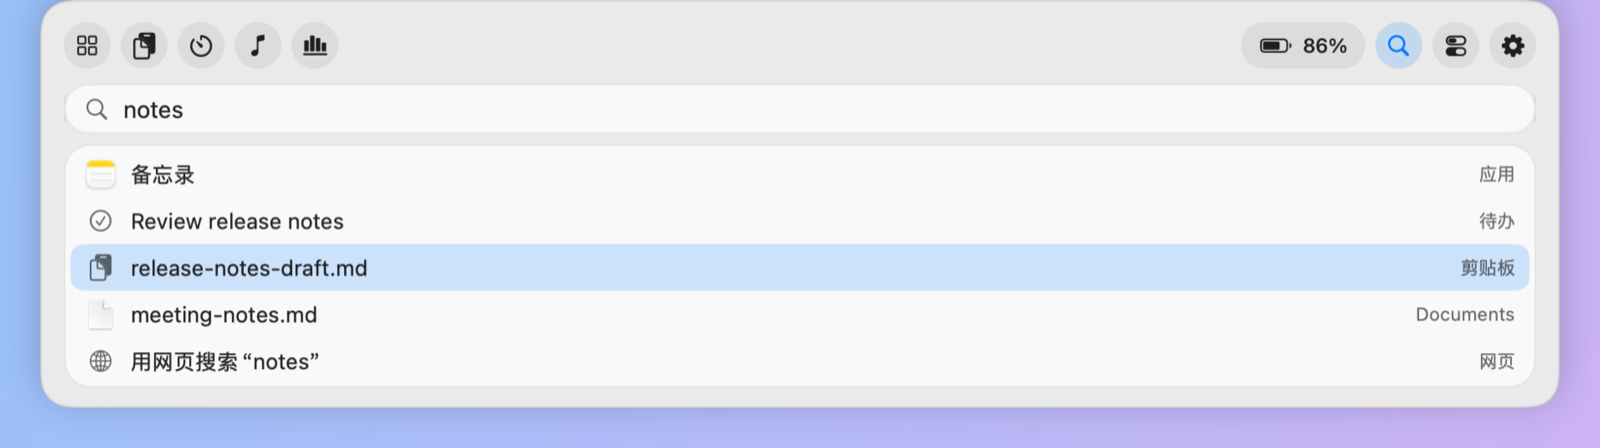
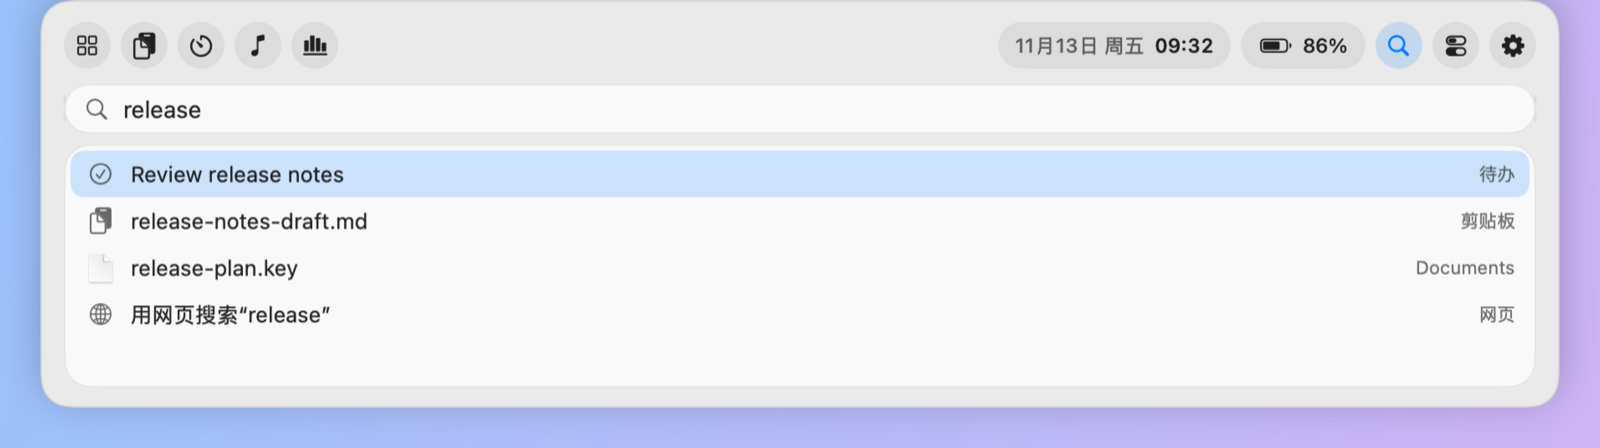
Refresh README screenshots and tighten the text
Retake every panel screenshot from the current build with demo data, so
they show the top bar clock, the schedule, shelf and today's time cards,
and the text capture and color picker buttons. Add a collage of four of
the new Look Busy scenes.

Rewrite both READMEs about a third shorter: features grouped by area in a
sentence or two each, the new features added, Screen Recording listed
under permissions, and build, signing and Shortcuts notes moved to a
Development section.

diff --git a/README.md b/README.md
@@ -10,71 +10,66 @@ English · [简体中文](README.zh-CN.md)
 
 </div>
 
-NotchDeck is a small native macOS menu bar app written in Swift and SwiftUI. Click its menu bar icon, or press
-**⌥⌘N**, and a panel opens with your todos, today's agenda, system stats, clipboard history, timers, music controls
-and quick system toggles. It has no Dock icon and needs no account.
+Click the menu bar icon or press **⌥⌘N** and a panel opens with your todos, schedule, system stats, clipboard,
+timers, music and quick toggles. It is written in Swift and SwiftUI, has no Dock icon, needs no account and keeps
+your data on your Mac.
 
 ![NotchDeck home page](docs/media/home.png)
 
 ## Screenshots
 
-**Clipboard smart cleanups**: right-click an item and NotchDeck suggests only what fits it, such as formatting JSON or turning a copied table into Markdown. Ordinary text gets no suggestions.
+| Second home page | Quick controls |
+| --- | --- |
+| ![Second home page](docs/media/home2.png) | ![Quick controls](docs/media/controls.png) |
+| **System monitor** | **Clipboard history** |
+| ![System monitor](docs/media/monitor.png) | ![Clipboard history](docs/media/clipboard.png) |
+| **Search** | **Music** |
+| ![Search](docs/media/search.png) | ![Music](docs/media/music.png) |
+| **Timers** | **AI token usage** |
+| ![Timers](docs/media/timer.png) | ![AI token usage](docs/media/usage.png) |
+
+**Clipboard smart cleanups**: right-click an item and NotchDeck suggests only the cleanups that fit it.
 
 ![Clipboard smart cleanups](docs/media/clipboard-demo.gif)
 
-| System monitor | Clipboard history |
-| --- | --- |
-| ![System monitor](docs/media/monitor.png) | ![Clipboard history](docs/media/clipboard.png) |
-| **Quick controls** | **Search** |
-| ![Quick controls](docs/media/controls.png) | ![Search](docs/media/search.png) |
-| **Music** | **Timers** |
-| ![Music](docs/media/music.png) | ![Timers](docs/media/timer.png) |
-| **Second home page** | **AI token usage** |
-| ![Second home page](docs/media/home2.png) | ![AI token usage](docs/media/usage.png) |
+**Look Busy**: switch to a convincing full-screen work scene in one keystroke.
 
-**Look Busy**
+![Look Busy: AI coding](docs/media/lookbusy.png)
 
-![Look Busy scene](docs/media/lookbusy.png)
+![Look Busy: dashboard, spreadsheet, MATLAB simulation and server ops](docs/media/lookbusy-scenes.png)
 
-The screenshots use made-up demo data and show the Chinese interface. Other languages are available in Settings.
+The screenshots use made-up demo data and the Chinese interface.
 
 ## Features
 
-- **Home cards**: todos, today's agenda, sticky note, clock, system monitor, music, clipboard, timer, month calendar
-  and Look Busy. Reorder, hide or move them across two pages. Double-click a to-do to edit it, hover it to delete it, or clear all completed ones at once.
-- **Today's agenda**: upcoming events from the system Calendar, a countdown to the next one, and a join button for
-  Zoom, Google Meet, Teams, Webex, Tencent Meeting, Feishu and DingTalk links.
-- **System monitor**: CPU, GPU, battery and SSD temperatures, power draw, memory pressure, swap, disk usage, upload
-  and download speed, battery health and cycle count, top processes, and 10-minute history charts. CPU, GPU and temperature readings are smoothed so
-  they are easier to read.
-- **Menu bar**: show any mix of temperature, CPU load, network speed and battery next to the icon. Right-click the
-  icon for search, clipboard, the monitor, audio output, a quick countdown, keep awake, Look Busy, display sleep, screen
-  lock and update checks. A cup appears next to the icon while keep awake is on.
-- **AI token usage** (optional, off by default): token counts per model for Claude Code and Codex, for today, 7 days or 30 days, split into input, cache reads, cache writes and output, with the cost in US dollars estimated at official API prices. NotchDeck reads only the usage fields of their local records on your Mac, never your conversations.
-- **Clipboard history**: text, images and files, with search and pinning. Items marked as sensitive by password
-  managers are skipped. Right-click an item and choose View to read long text in full, or to see an image large next to the text recognized in it on your Mac. Search also finds images by the text in them. Right-click an image for Copy Text from Image, or Copy Subject to copy the person, pet or object in it with a transparent background. Text over about 1 MB is not recorded. History, images included, is saved on your Mac
-  and is still there after a restart; turn off Save History to keep only pinned items.
-  - **Formatting**: text keeps the bold, links and tables it was copied with (marked **Aa**). Choose whether a click
-    copies the original or plain text, hold Shift to copy the other way, or right-click for Clean Formatting, which
-    keeps the structure but drops fonts, sizes and colors so the document's own style applies.
-  - **Smart cleanups**: right-click an item and NotchDeck suggests only the cleanups that fit it: format or compact
-    JSON, format XML, turn a copied table into Markdown, LaTeX or CSV, unescape text, decode URLs, convert timestamps,
-    keep only the link from a share text, remove tracking parameters, join lines broken by PDFs, remove line numbers,
-    list markers, blank or duplicate lines, space out Chinese and English, fix mixed punctuation, and title-case an
-    English paper title. The cleaned text is added to the history and the original stays.
-- **Timers**: countdown, stopwatch with laps, and a 25-minute focus timer.
-- **Music**: now-playing title, artwork, progress, playback controls and system volume.
-- **Search**: apps, files (through Spotlight), todos, notes and clipboard history, with a web search fallback.
-- **Quick controls**: Wi-Fi, Bluetooth, dark mode, Night Shift, keep awake (indefinitely or for 15 minutes to 12 hours), mute, audio output, volume, built-in display
-  brightness, screenshot, display sleep and lock screen, plus battery levels for connected Bluetooth devices.
-- **Reminders sync** (optional): use a list from the system Reminders app as your todo card.
-- **Look Busy**: ten convincing full-screen work scenes (AI coding, model training, paper writing, data analysis, a monitoring dashboard, build and test, server ops, a spreadsheet, a MATLAB simulation and paper reading) for demos and screenshots. Nothing they show is real. With several displays you can pick a scene for each one, portrait displays get a stacked layout, and a display plugged in while the scene is showing is covered too.
-- **Appearance**: light, dark or follow the system.
-- **Languages**: Simplified and Traditional Chinese, English, Japanese, Korean, French, German and Spanish. Switch in Settings without restarting.
-- **Automatic updates**: checks GitHub for a new release every few hours, downloads it in the background, verifies its
-  checksum, bundle ID and signature, and installs it and reopens NotchDeck while you are not using it (the panel is
-  closed and no timer or Look Busy is running). Keep awake stays on across the update, with the same end time. It sends nothing about you, and you can turn it off in
-  Settings; then you get a button to update by hand.
+**Home**
+- **Cards**: todos, sticky note, system monitor, music, schedule, clipboard, shelf and today's time, plus optional clock, month calendar, timer, token usage and Look Busy cards. Reorder, hide or spread them over two pages.
+- **Schedule**: this week's dates and the events of the next 7 days, with a join button for Zoom, Teams, Google Meet, Tencent Meeting, Feishu and other meeting links.
+- **Shelf**: drop files on the panel to keep them for later, then drag them out or open them.
+- **Today's time**: how long each app has been in front today.
+
+**Menu bar**
+- The top bar shows the date and time; next to the icon you can show temperature, CPU, network speed, battery and an update arrow.
+- Right-click the icon for search, clipboard, the monitor, audio output, a quick countdown, keep awake, Look Busy, display sleep, screen lock and update checks.
+
+**Clipboard**
+- Text, images and files, with search and pinning, kept across restarts. Items marked sensitive by password managers are skipped.
+- Keeps bold, links and tables; a click copies the original, plain text, or clean formatting without fonts and colors.
+- Right-click for smart cleanups: format JSON, turn a table into Markdown, LaTeX or CSV, strip tracking parameters, join lines broken by PDFs and more.
+- Recognize the text in an image, or cut out its subject, on your Mac.
+
+**Tools**
+- **System monitor**: temperatures, power draw, memory, disk, network speed, battery health, top processes and 10-minute charts.
+- **Quick controls**: Wi-Fi, Bluetooth, dark mode, Night Shift, keep awake, mute, volume, brightness and Bluetooth device batteries.
+- **Capture text** and **color picker**: select text on screen to copy it, or pick a HEX color with the magnifier.
+- **Timers**: countdown, stopwatch and a 25-minute focus timer.
+- **Search**: apps, files, todos, notes and clipboard history.
+- **AI token usage** (optional): token counts and estimated cost per model for Claude Code and Codex, read from usage fields only, never your conversations.
+- **Reminders sync** (optional): use a list from Reminders as your todo card.
+
+**Look Busy**: ten full-screen work scenes, including AI coding, model training, paper writing, a monitoring dashboard, build and test and a MATLAB simulation. Nothing they show is real. With several displays each one can show its own scene, and portrait displays get a stacked layout.
+
+**Other**: light or dark appearance; Simplified and Traditional Chinese, English, Japanese, Korean, French, German and Spanish; automatic updates that install while you are not using NotchDeck and can be turned off.
 
 ## Keyboard shortcuts
 
@@ -83,27 +78,37 @@ The screenshots use made-up demo data and show the Chinese interface. Other lang
 | ⌥⌘N | Open or close the panel |
 | ⌃⌥V | Open or close the clipboard page |
 | ⌃⌥B | Start or stop Look Busy |
-| ⌃⌥T | Select text on screen, recognize it and copy it |
-| ⌃⌥C | Pick a color with the magnifier and copy its HEX value |
+| ⌃⌥T | Select text on screen and copy it |
+| ⌃⌥C | Pick a color and copy its HEX value |
 | Esc | Close the panel or leave Look Busy |
-
-Right-click or Control-click the menu bar icon to open the shortcut menu.
 
 ## Install
 
-### Download
+Download the latest `.dmg` from [Releases](https://github.com/wangwenxuan61/NotchDeck/releases) and drag NotchDeck to Applications. It needs macOS 14 or later on an Apple silicon Mac.
 
-Download the latest `.dmg` from [Releases](https://github.com/wangwenxuan61/NotchDeck/releases), open it and drag
-NotchDeck to Applications. It requires macOS 14 or later on an Apple silicon Mac.
+NotchDeck is not notarized by Apple, so macOS blocks the first launch: open it once and dismiss the warning, then go to **System Settings → Privacy & Security** and click **Open Anyway** next to NotchDeck. Later versions update themselves.
 
-NotchDeck is not notarized by Apple, so macOS blocks it the first time:
+## Permissions
 
-1. Open NotchDeck once and dismiss the warning.
-2. Go to **System Settings → Privacy & Security**, scroll down and click **Open Anyway** next to NotchDeck.
+NotchDeck only asks when you turn on a feature that needs it:
 
-### Build from source
+- **Calendar**: the schedule card. Events are only read.
+- **Reminders**: Reminders sync. Turning it on moves your unfinished local todos into the chosen list.
+- **Bluetooth**: the Bluetooth toggle and device batteries.
+- **Notifications**: countdown and focus alerts, asked the first time you start a timer.
+- **Screen Recording**: capture text, asked the first time you use it. The screenshot is read on your Mac and deleted right away.
 
-You only need the Xcode Command Line Tools (`xcode-select --install`).
+From 0.1.11 on, permissions are kept across updates.
+
+## Limitations
+
+- Temperatures, now-playing data, dark mode, Night Shift, brightness, Bluetooth power and screen lock rely on private macOS interfaces. They can stop working after a system update, and the app cannot ship on the Mac App Store.
+- The brightness slider only controls the built-in display.
+- So far it has only been tested on one Apple silicon Mac with macOS 27 and a single display.
+
+## Development
+
+You only need the Xcode Command Line Tools (`xcode-select --install`):
 
 ```bash
 git clone https://github.com/wangwenxuan61/NotchDeck.git
@@ -112,31 +117,11 @@ cd NotchDeck
 open build/NotchDeck.app
 ```
 
-To keep it around, and before you enable *Launch at login*, move `build/NotchDeck.app` to your Applications folder.
+Before committing, run `swift run NotchDeckChecks` and `python3 scripts/check-translations.py`. GitHub runs both on every push.
 
-Before committing, run the checks. `swift run NotchDeckChecks` covers the logic that needs no UI or permissions, and `python3 scripts/check-translations.py` makes sure every language has every string. GitHub runs both on each push.
+Releases are signed with a fixed self-signed certificate, and automatic updates only install versions signed with it. When you build it yourself without that certificate in your keychain, the app is ad-hoc signed and macOS may ask for permissions again after each rebuild.
 
-## Permissions
-
-NotchDeck only asks when you turn on a feature that needs it:
-
-- **Bluetooth**: for the Bluetooth toggle and device battery levels.
-- **Reminders**: for Reminders sync. Turning sync on moves your unfinished local todos into the selected list.
-- **Calendar**: for the agenda card. NotchDeck only reads your events.
-- **Notifications**: for countdown and focus alerts, so you see them even when you are away. NotchDeck asks the first time you start a timer.
-
-From 0.1.11, releases are signed with a fixed self-signed certificate, so permissions you grant are kept when NotchDeck updates. Updating from 0.1.10 or earlier asks for them once more, because those versions were ad-hoc signed. Automatic updates only install versions signed with the same certificate. If you build it yourself, `build.sh` uses the certificate when it is in your keychain and an ad-hoc signature otherwise, so macOS may ask again after each rebuild.
-
-Do Not Disturb has no public API. To link it with the focus timer, create two Shortcuts named `NotchDeck 专注开始` and
-`NotchDeck 专注结束`, and NotchDeck will run them when a focus session starts and ends.
-
-## Limitations
-
-- Temperatures, now-playing data, dark mode, Night Shift, brightness, Bluetooth power and screen lock rely on private
-  macOS interfaces. They can stop working after a system update, and the app cannot be distributed through the Mac App
-  Store.
-- The brightness slider only controls the built-in display.
-- So far it has only been run on an Apple silicon Mac with macOS 27. Sensor names can differ on other models.
+Do Not Disturb has no public API. To link it with the focus timer, create two Shortcuts named `NotchDeck 专注开始` and `NotchDeck 专注结束`; NotchDeck runs them when a focus session starts and ends.
 
 ## License
 
